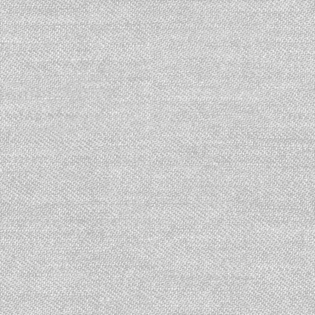
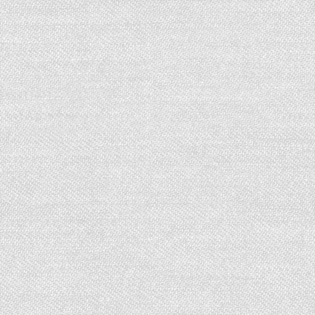
pages depth - not finished yet

diff --git a/style.css b/style.css
@@ -239,6 +239,48 @@ body {
     line-height: 3vh;
 }
 
+.pages_depth_element {
+    display: none;
+}
+
+.display-double .pages_depth_element {
+    display: inline-block;
+    height: 100%;
+    padding: 0;
+    transition: width 200ms;
+    z-index: 100;
+    background-color: fff;
+    background-image: linear-gradient(90deg, #555 50%, #fff 50%);
+    background-size: 2px;
+}
+
+#flipbook_parent {
+    margin: 0;
+    z-index: 1000;
+}
+
+.display-double #book_container {
+    white-space: nowrap;
+}
+
+.display-double #book_container>div {
+    display: inline-block;
+}
+
+#pages_depth_l {
+    background-image: linear-gradient(to left, rgba(0, 0, 0, 0) 50%, rgba(0, 0, 0, 0.5) 100%), linear-gradient(to left, #fff 50%, #888 50%);
+    background-size: 100%, 2px;
+    -box-shadow: 4px 0 10px 0px #fff inset;
+    margin-right: -5px;
+}
+
+#pages_depth_r {
+    background-image: linear-gradient(to right, rgba(0, 0, 0, 0) 50%, rgba(0, 0, 0, 0.5) 100%), linear-gradient(to left, #fff 50%, #888 50%);
+    background-size: 100%, 2px;
+    -box-shadow: -4px 0 10px 0px #fff inset;
+    margin-left: -5px;
+}
+
 
 /* ON MOBILE DEVICES */
 

diff --git a/custom/style.css b/custom/style.css
@@ -28,7 +28,7 @@
 
 .desktop #flipbook .page {
     background-image: url(img/45-degree-fabric-dark.png);
-    background-color: #ffffee;
+    background-color: #fffff1;
 }
 
 
@@ -124,6 +124,10 @@
 #flipbook .odd .page_number {
     text-align: right;
     border-radius: 0 10px 10px 0;
+}
+
+#flipbook .first_content_line {
+    margin-bottom: 13px !important;
 }
 
 @media only screen and (min-width: 1100px) {

diff --git a/index.php b/index.php
@@ -81,7 +81,11 @@ require_once "config.php";
 		<span id="id-next" class="form-control btn btn-primary width-10"></span>
 	</div>
 	<div id="book_container" class="book_container_width">
-		<div id="flipbook"></div>
+		<div id="pages_depth_l" class="pages_depth_element"></div>
+		<div id="flipbook_parent">
+			<div id="flipbook"></div>
+		</div>
+		<div id="pages_depth_r" class="pages_depth_element"></div>
 	</div>
 
 	<script>
@@ -92,7 +96,8 @@ require_once "config.php";
 	var q = '';
 	var lastQ; // previous search query
 	var $book = $('#flipbook'); // book jQuery element
-	var $book_parent = $book.parent();
+	var $book_parent = $('#flipbook_parent');
+	var $size_parent = $('#book_container');
 	var pages; // number of pages (including 4 cover pages)
 	var book_list; // array of pages as json object of id,content,name,filename. note that array index = page - 3 (because it starts with 0 and does not include the cover pages)
 	var ajax_cache = {}; // local cache of ajax requests - used by ajax() function
@@ -101,8 +106,9 @@ require_once "config.php";
 	var search_position = 0; // position in current search results (relevant on "search" mode, irrelevant on "filter" mode)
 	var cover_pages_before,cover_pages_after;
 	var page_content_scroll_hide_page_number = null;
-	var turn_display_mode; // 'single' or 'double' pages view
-	var mobile_mode; // intentionally start undefined
+	var turn_display_mode; // 'single' or 'double' pages view. intentionally start as undefined
+	var mobile_mode; // mobile device mode true/false. intentionally start as undefined
+	var pages_depth_width; // width of pages_depth elements together. 0 for off. intentionally start as undefined
 	var show_peel_corner_TO;
 	var pause_turn_events;
 	var show_peel_corner = function(){
@@ -159,6 +165,7 @@ require_once "config.php";
 			for (var i = range[0]; i<=range[1]; i++){
 				load_page(i);
 			}
+			pages_depth_turning();
 		}
 	}
 	// attached to the "turned" event
@@ -234,6 +241,7 @@ require_once "config.php";
 		} else {
 			$book.turn('page',page);
 		}
+		pages_depth_turning();
 	}
 
 	// wrapper for $book.turn('page')
@@ -436,11 +444,6 @@ require_once "config.php";
 		}catch(e){}
 		$book.remove();
 		$book = $('<div id="'+id+'">').appendTo($book_parent);
-		if (CONFIG["pages_depth"]){
-			if (turn_display_mode!='single'){
-				$book.addClass("pages_depth");
-			}
-		}
 		if (CONFIG["middle_gradient"]){
 			$book.addClass('middle_gradient');
 		}
@@ -483,8 +486,8 @@ require_once "config.php";
 
 		// the turnjs magic!
 		var turn_options = CONFIG["turn_options"];
-		//options.width = $book_parent.width();
-		//options.height = $book_parent.height();
+		//options.width = $size_parent.width();
+		//options.height = $size_parent.height();
 		turn_options.width = '100%';
 		turn_options.height = '100%';
 		turn_options.pages = pages;
@@ -494,6 +497,7 @@ require_once "config.php";
 		// fix page width via css
 		$('#id-style-fix-pages').remove();
 		$('head').append('<style id="id-style-fix-pages">#flipbook .page { width:' +(turn_options.width/2)+'px; height:' + turn_options.height + 'px;</style>');
+		handle_pages_depth();
 	}//build_book
 
 	// detect and handle single/double pages view mode. 
@@ -511,6 +515,42 @@ require_once "config.php";
 		}
 	}//set_display_mode
 
+	// handle book depth display/hide
+	// called by resize() and build_book()
+	function handle_pages_depth() {
+		if (!CONFIG["pages_depth"]){
+			return;
+		}
+		var width = turn_display_mode=='double' && Math.floor(pages*CONFIG["pages_depth_paper_thickness"]);
+		width = Math.min(width,innerWidth - $book_parent.width(),CONFIG["pages_depth_max_width"]);
+		if (pages_depth_width !== width){
+			pages_depth_width = width;
+			var visible = !!pages_depth_width;
+			$('.pages_depth_element').toggle(visible);
+			$('body').toggleClass('pages_depth',visible);
+			if (visible){
+				pages_depth_turning();
+			}
+			console.log('pages_depth_width=',pages_depth_width);
+		}
+	}
+
+	// handle book depth effect, width of both sides
+	// called by turned()
+	function pages_depth_turning() {
+		if (pages_depth_width){
+			var percent_of_book = current_page()/pages; 
+			if (CONFIG["rtl"]){
+				percent_of_book = 1-percent_of_book;
+			}
+			var width_l = pages_depth_width * percent_of_book; 
+			var width_r = pages_depth_width - width_l;
+			$('#pages_depth_l').width(width_l).css('margin-left' ,width_r).toggleClass('has_width',!!width_l);
+			$('#pages_depth_r').width(width_r).css('margin-right',width_l).toggleClass('has_width',!!width_r);
+			console.log('pages_depth_width: ',width_l,width_r)
+		}
+	}
+
 	// detect and handle mobile mode
 	// called by resize()
 	function set_mobile_mode() {
@@ -525,8 +565,9 @@ require_once "config.php";
 
 	// resize event - redetect mobile state, and reset the book size
 	function resize(){
-		$book.turn("size",$book_parent.width(),$book_parent.height());
+		$book.turn("size",$size_parent.width(),$size_parent.height());
 		set_mobile_mode();
+		handle_pages_depth();
 	}
 	$(window).resize(resize);
 
